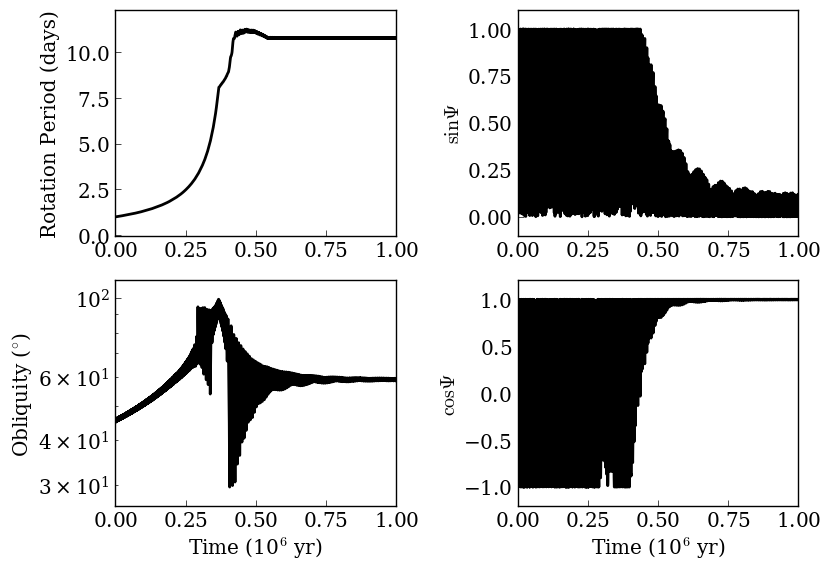
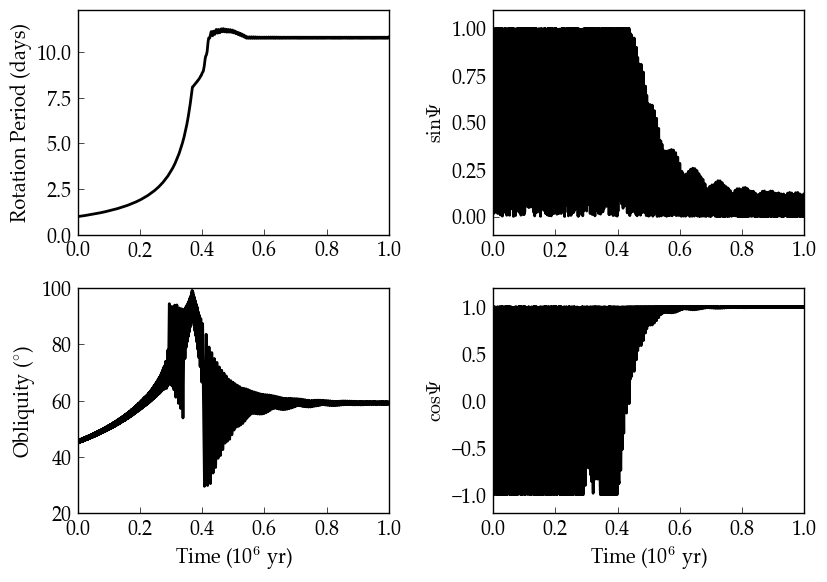
Changed y-axis in the obliquity panel of examples/CassiniStates/CassiniStatesEvol.png to be linear.

diff --git a/examples/CassiniStates/makeplot.py b/examples/CassiniStates/makeplot.py
@@ -33,7 +33,8 @@ plt.subplot(2,2,3)
 plt.plot(out.b.Time/1e6,out.b.Obliquity,'k-')
 plt.xlabel('Time (10$^6$ yr)')
 plt.ylabel('Obliquity ($^{\circ}$)')
-plt.yscale('log')
+plt.ylim(20,100)
+#plt.yscale('log')
 # plt.xlim(0,5)
 
 plt.subplot(2,2,4)
